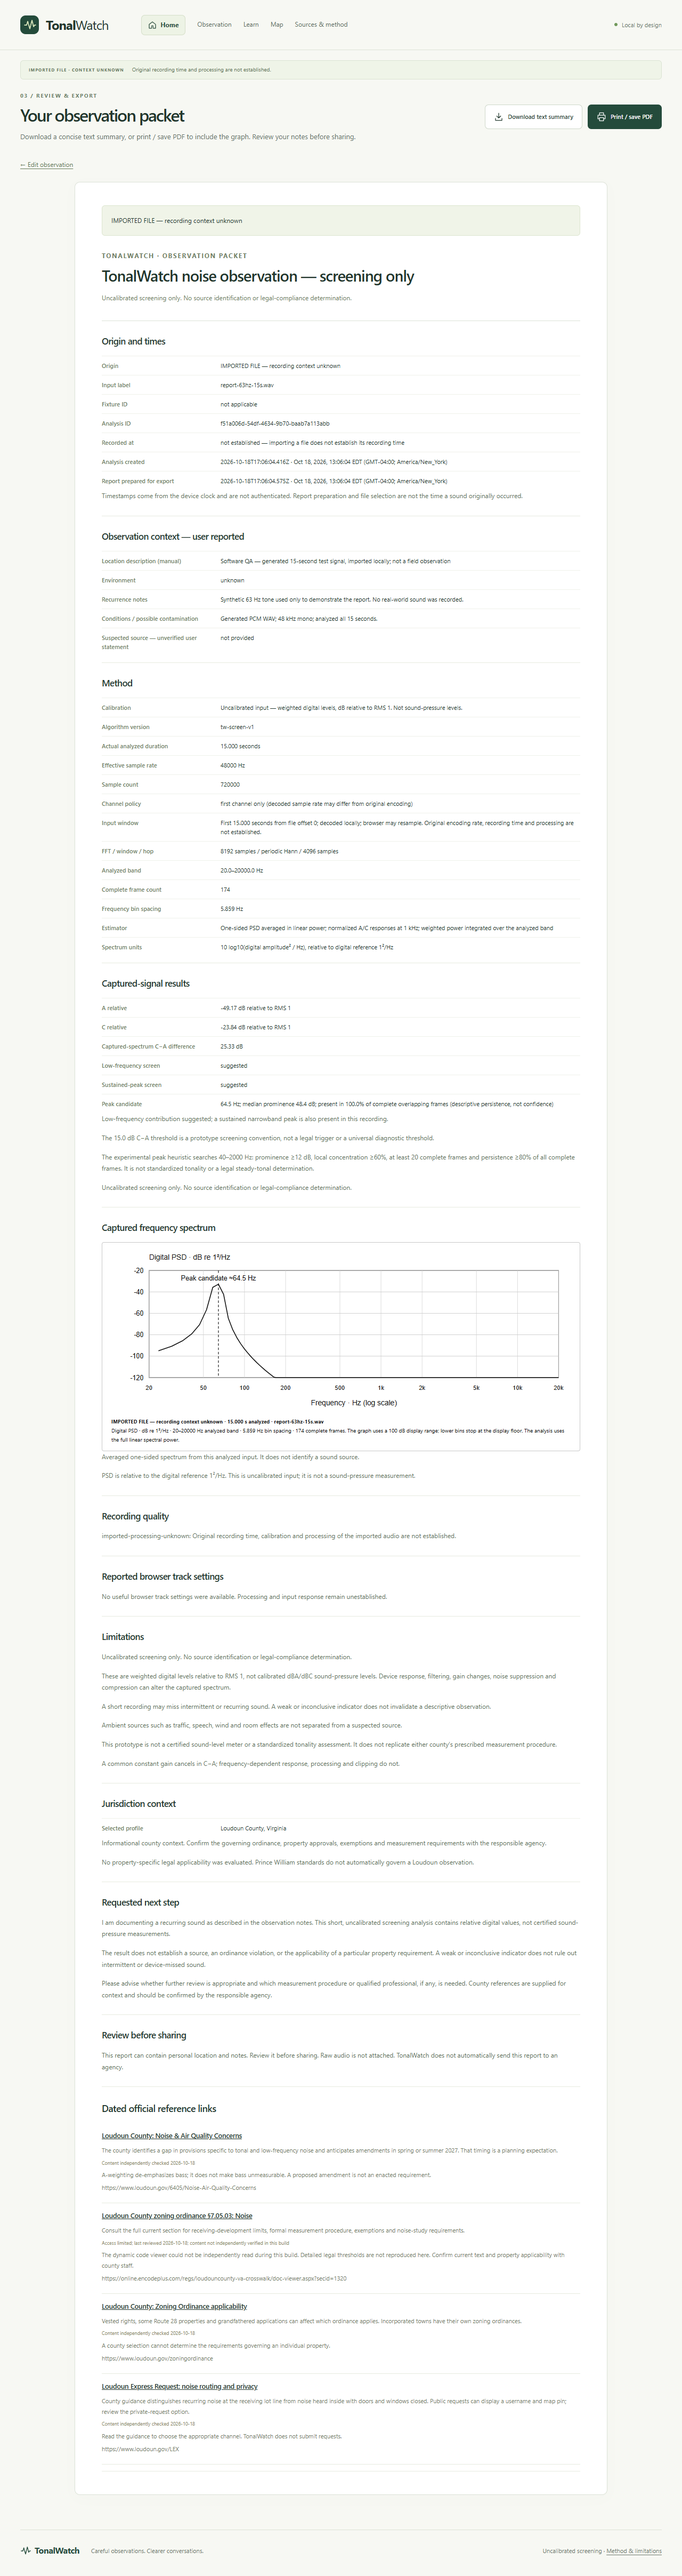
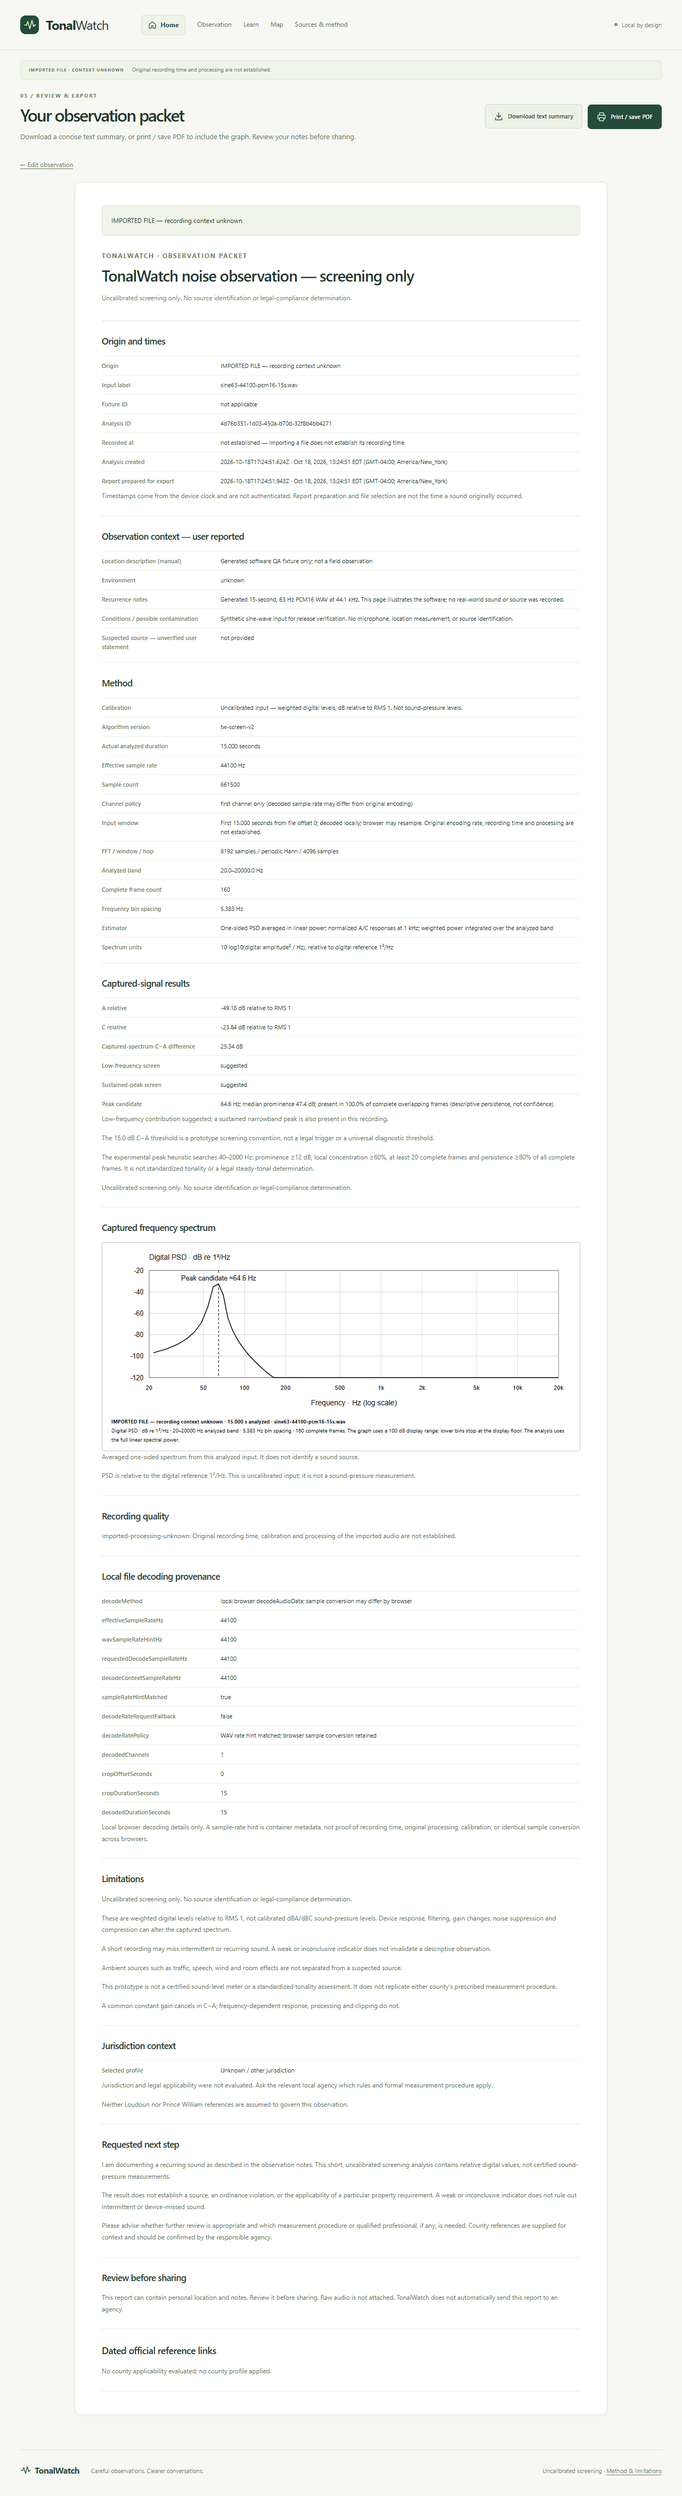
Verify the final public release and refresh page previews

diff --git a/docs/DEPLOYMENT.md b/docs/DEPLOYMENT.md
@@ -2,7 +2,18 @@
 
 Verified October 18, 2026, in Chrome 155 on Windows.
 
-## Current report and audio-import release
+## Current sustained-peak correction release
+
+- Public URL: [tonalwatch.vercel.app](https://tonalwatch.vercel.app).
+- Application source: `c54ab688548a93bfc88720617e5c50d9971c1392` on main; deployment `dpl_4ESRPj5Moqk7xHLKmrgYwu5qFj3S`, production **READY**. Later research/documentation commits do not change these app sources.
+- Exact Git-archive deployment; fresh `npm ci` found zero vulnerabilities and TypeScript/Vite production build succeeded. The matching checkout passed **380 tests across 19 files** (341 app + 39 standalone-lab checks).
+- Method `tw-screen-v2` retains the same PSD, weighted levels and quality/peak eligibility gates, then ranks eligible sustained tracks by median three-bin power. A generated PCM16 artifact 99.20 dB weaker than a 63 Hz tone no longer wins on prominence alone. Sources discloses the new selection rule without claiming a fundamental or source.
+- The repository's separate lab mirrors the selection as `tw-field-lab-v3`; structured v2/v3 records retain their original values and versions. The static Vite app does not publish that standalone instrument.
+- Concise text summaries, visual report/print spectrum, visible duration choices, negative-dB explanations and supported WAV-rate preservation remain included. The trained research classifier remains outside the app; [strict candidate browser parity failed](../ml/runs/2026-10-18-v2-browser-parity/README.md).
+- Public HTTPS verification loaded `index-TOHZiOpm.js` and analyzed the generated 15-second 44.1 kHz PCM16 fixture: **661,500 samples / 160 frames / peak 64.599609375 Hz**, A −49.179906, C −23.835842 and C−A 25.344064 dB. Pre-correction PSD reference bins agreed within 1e−6; the safe decoder provenance and five-second AI prefix boundary remained intact. No model inference/download was requested.
+- Native text download was **6,576 bytes / 99 lines / zero bin rows**. It retained the corrected candidate, version and full recording provenance. The graph remained visible in print media and toolbar controls hid. Report and Sources at **320/390/1280 px** had no horizontal overflow; scrolling to the maximum reached a fully visible footer in every case (less than 0.5 px rounding). No page/console/HTTP/request errors occurred. Observation, Report and Sources screenshots were refreshed from this public release, with generated-QA context explicitly identified.
+
+## Prior report and audio-import release
 
 - Public URL: [tonalwatch.vercel.app](https://tonalwatch.vercel.app), checked without authentication.
 - Application source: main commit `0b94eb0e092fbb4a30c94407a62f01a0d91cbaeb`; deployment `dpl_8DJ8cYJBXhj5wGhTsgDoA6zPf92f`, production **READY**. Subsequent research/documentation commits do not change these app sources.

diff --git a/docs/VALIDATION.md b/docs/VALIDATION.md
@@ -42,6 +42,8 @@ The dependency-free standalone lab mirrors this correction as `tw-field-lab-v3`.
 
 The [recorded before-fix audit](validation/peak-ranking-before.json) preserves the generated-signal comparison. Regression checks cover quantized tones at both supported rates and 5/15 seconds, stronger ~80%-persistent versus weaker fully persistent tracks, ineligible ~75% tracks, low-gain tones, noise/burst rejection, complete main/lab PSD and A/C parity, and historical structured-record preservation. **380 tests across 19 files and the production build passed** after the correction.
 
+Public release `c54ab68` then reported the generated 15-second 44.1 kHz PCM16 tone near **64.599609375 Hz**, retaining 661,500 samples/160 frames and the prior A/C values/PSD references. Text download was 6,576 bytes/99 lines with no bin rows; report/print kept the graph. At 320/390/1280 px, Report and Sources fit horizontally and their footers were fully reachable at maximum vertical scroll. No runtime/network errors occurred. These generated-input checks do not validate physical source identification.
+
 ## Environment and pinned dependencies
 
 Execution environment: Windows, PowerShell, Node.js **24.18.0**, npm **11.16.0**. Direct dependency pins in `package.json` and the lockfile are recorded below. The earlier release's `npm ls --depth=0` check preceded the Leaflet additions; the expanded checkout subsequently passed TypeScript and Vite production build with Leaflet included.
